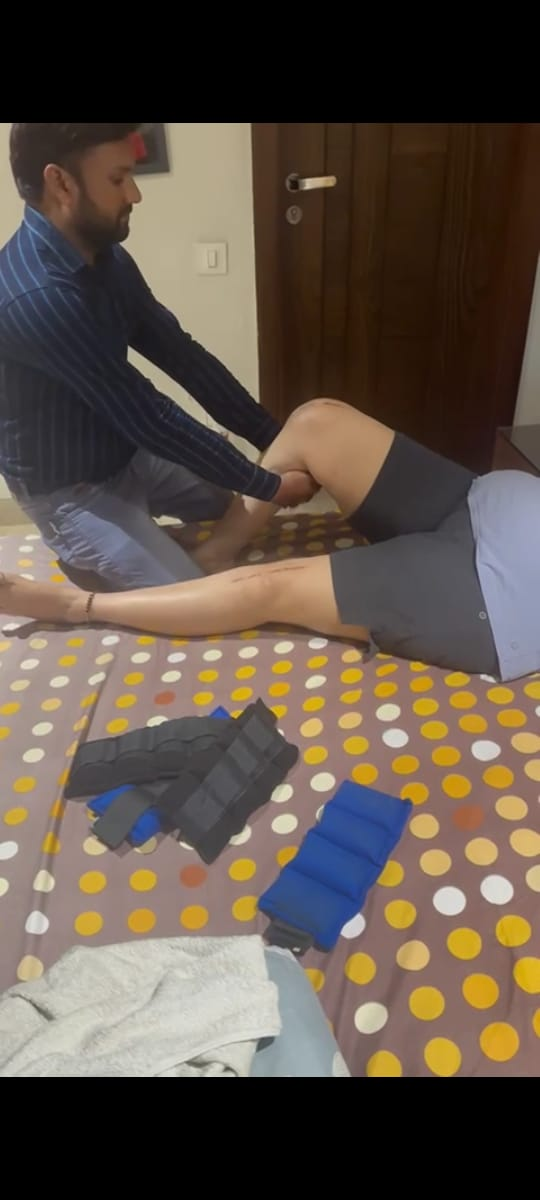
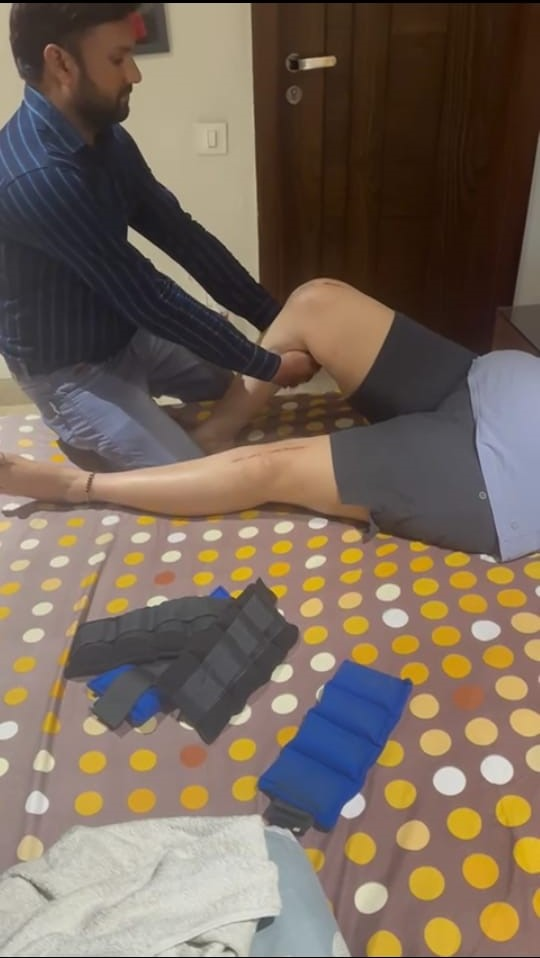
update

diff --git a/src/css/header.css b/src/css/header.css
@@ -52,7 +52,7 @@
 .logo{
   height: 10vh;
   position: relative;
-  left: 0%;
+  left: 20%;
 }
 
 .navdesk1{
